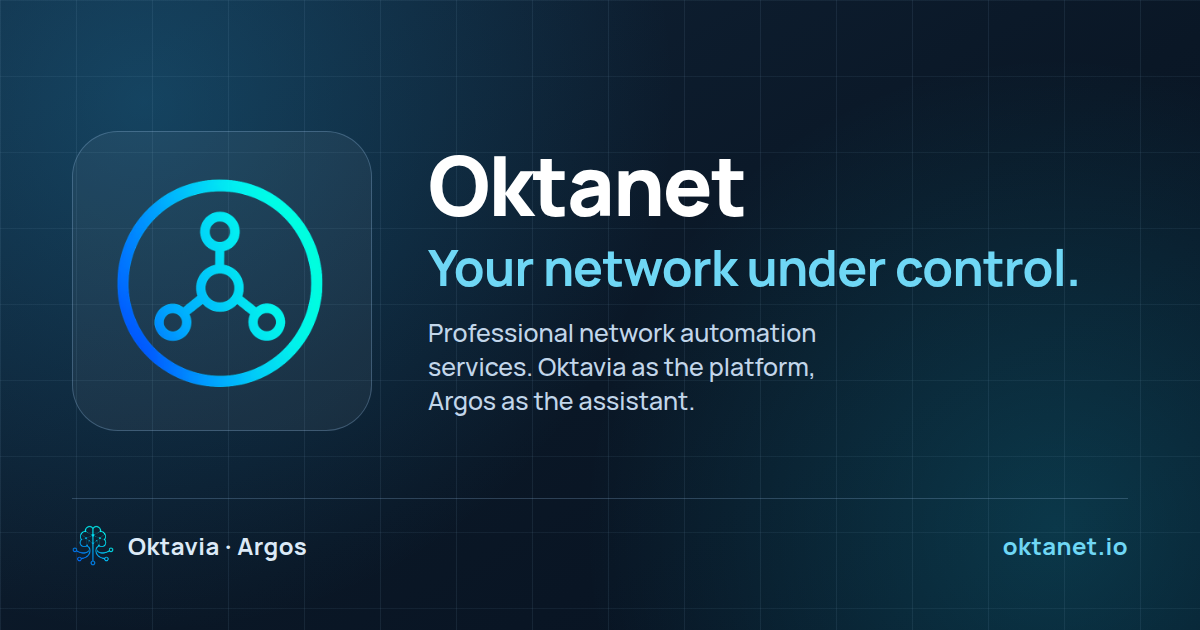
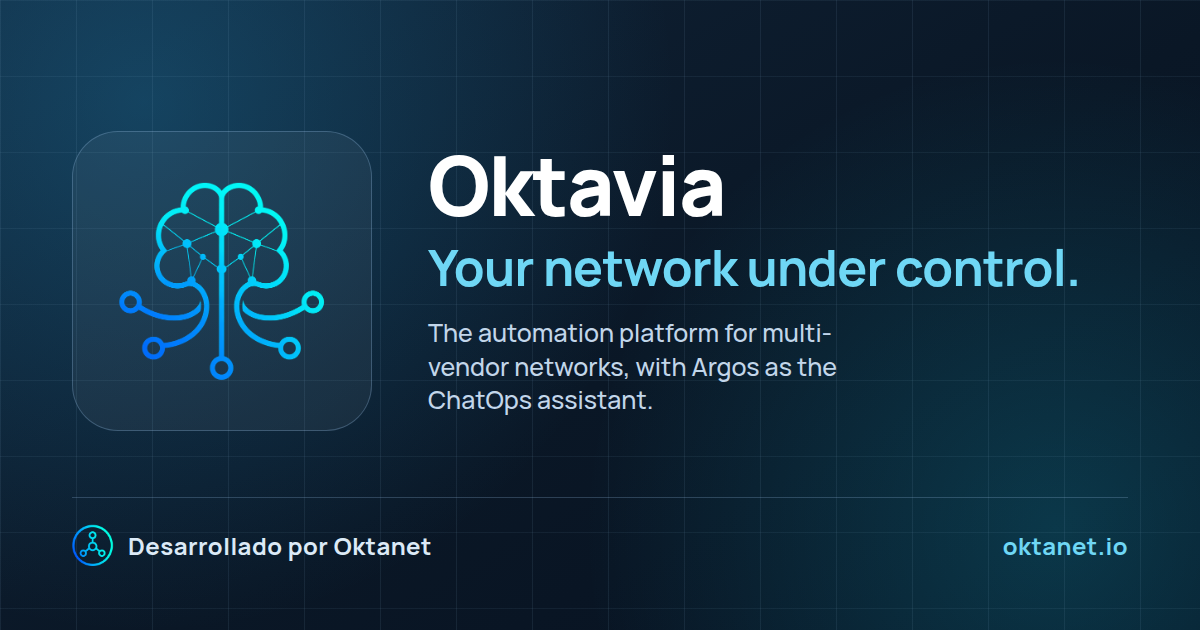
El lema vuelve a su dueno: es de Oktavia, no de la empresa
Al poner a Oktanet arriba se llevo el lema con el, y el titular decia "Oktanet:
tu red bajo control". "Tu red bajo control" describe lo que hace el producto, no
lo que hace la empresa, y en la pagina se leia como si fueran lo mismo.

El titular pasa a "Oktavia · tu red bajo control", sin los dos puntos, y debajo
va la firma en pequeno: "Desarrollado por Oktanet", que es como aparece en la
propia interfaz del producto. El resto de la pagina sigue siendo de la empresa,
que es lo correcto: quien llega, llega por Oktanet, y de ahi baja a cada
producto.

Se ajusta igual el pie y la tarjeta que se ve al compartir, donde el simbolo
vuelve a ser el de Oktavia y la firma de Oktanet baja al pie de la imagen.

El selector del parrafo del hero deja de ser "el primero" y pasa a excluir la
firma, que ahora va delante.

diff --git a/script/home_script.js b/script/home_script.js
@@ -176,7 +176,8 @@
             metricsTitle: 'Resultados operativos desde las primeras iteraciones de adopción.',
             metricsIntro: 'Métricas de referencia en equipos que migran de procesos manuales a flujos controlados con artefactos.',
             heroTitle: 'tu red bajo control.',
-            heroTitleBrand: 'Oktanet:',
+            heroTitleBrand: 'Oktavia',
+            heroAttrib: 'Desarrollado por Oktanet',
             heroBody: 'Servicios profesionales de automatización de redes. Llevamos tu red multivendor a un estándar declarado, verificable y corregible, con Oktavia como plataforma y Argos como asistente. Diseño, implementación y operación, llave en mano.',
             heroActions: ['Solicitar una demostración', 'Ver la información', 'Descargar el PDF'],
             heroPoints: [
@@ -507,7 +508,7 @@
             officeLines: ['Torre de Oficinas, Downtown Reforma', 'Ciudad de México'],
             formLabels: ['Nombre completo', 'Correo electrónico', 'Empresa', '¿Qué deseas resolver?'],
             submitButton: 'Enviar solicitud',
-            footerTagline: 'Oktanet: tu red bajo control.',
+            footerTagline: 'Oktavia, tu red bajo control.',
             copyright: 'Todos los derechos reservados.',
             heroImageAlt: 'Centro de automatización de red de Oktavia con el cumplimiento global y la actividad reciente',
             platformImageAlt: 'Vista de cumplimiento de configuración en Oktavia',
@@ -565,7 +566,8 @@
             metricsTitle: 'Operational outcomes from the first adoption cycles.',
             metricsIntro: 'Reference metrics from teams moving from manual processes to controlled artifact-based workflows.',
             heroTitle: 'your network under control.',
-            heroTitleBrand: 'Oktanet:',
+            heroTitleBrand: 'Oktavia',
+            heroAttrib: 'Powered by Oktanet',
             heroBody: 'Professional network automation services. We bring your multi-vendor network to a declared, verifiable, and fixable standard, with Oktavia as the platform and Argos as the assistant. Design, implementation, and operation, turnkey.',
             heroActions: ['Request a Demo', 'Read the information', 'Download the PDF'],
             heroPoints: [
@@ -896,7 +898,7 @@
             officeLines: ['Office Tower, Downtown Reforma', 'Mexico City'],
             formLabels: ['Full name', 'Email', 'Company', 'What do you need to solve?'],
             submitButton: 'Send Request',
-            footerTagline: 'Oktanet: your network under control.',
+            footerTagline: 'Oktavia, your network under control.',
             copyright: 'All rights reserved.',
             heroImageAlt: 'Oktavia network automation center showing global compliance and recent activity',
             platformImageAlt: 'Configuration compliance view in Oktavia',
@@ -1023,7 +1025,8 @@
             titular.appendChild(nombre);
             titular.appendChild(document.createTextNode(' ' + copy.heroTitle));
         }
-        setText(document.querySelector('.hero-copy > p'), copy.heroBody);
+        setText(document.querySelector('.hero-copy > p:not(.hero-attrib)'), copy.heroBody);
+        setText(document.querySelector('.hero-attrib'), copy.heroAttrib);
         setTextList(document.querySelectorAll('.hero-actions a'), copy.heroActions);
         renderHeroPoints(copy);
 

diff --git a/index.html b/index.html
@@ -11,7 +11,7 @@
 
     <link rel="canonical" href="https://oktanet.io/">
 
-    <meta property="og:title" content="Oktanet · Tu red bajo control">
+    <meta property="og:title" content="Oktavia · Tu red bajo control">
     <meta property="og:description" content="De detectar la desviación a remediarla verificada, sin salir de una sola plataforma. Descubrimiento, cumplimiento, seguridad y ChatOps para redes multivendor.">
     <meta property="og:type" content="website">
     <meta property="og:url" content="https://oktanet.io/">
@@ -22,8 +22,8 @@
     <meta property="og:image" content="https://oktanet.io/img/og-es.png">
     <meta property="og:image:width" content="1200">
     <meta property="og:image:height" content="630">
-    <meta property="og:image:alt" content="Oktanet, servicios profesionales de automatización de redes, con el lema Tu red bajo control">
-    <meta name="twitter:title" content="Oktanet · Tu red bajo control">
+    <meta property="og:image:alt" content="Oktavia, la plataforma de automatización de redes de Oktanet, con el lema Tu red bajo control">
+    <meta name="twitter:title" content="Oktavia · Tu red bajo control">
     <meta name="twitter:description" content="Detecta la desviación, propone el cambio, lo aplica con aprobación y verifica que cerró.">
     <meta name="robots" content="index, follow">
 
@@ -80,7 +80,8 @@
         <section class="hero-section">
             <div class="container hero-grid">
                 <div class="hero-copy">
-                    <h1><span class="hero-brandline">Oktanet:</span> tu red bajo control.</h1>
+                    <h1><span class="hero-brandline">Oktavia</span> tu red bajo control.</h1>
+                    <p class="hero-attrib">Desarrollado por Oktanet</p>
                     <p>
                         Servicios profesionales de automatización de redes. Llevamos tu red multivendor a un estándar declarado, verificable y corregible, con Oktavia como plataforma y Argos como asistente. Diseño, implementación y operación, llave en mano.
                     </p>
@@ -773,7 +774,7 @@
                 </picture>
                 <div>
                     <h4>OKTANET</h4>
-                    <p>Oktanet: tu red bajo control.</p>
+                    <p>Oktavia, tu red bajo control.</p>
                 </div>
             </div>
             <div class="footer-links">

diff --git a/tools/og_template.html b/tools/og_template.html
@@ -116,16 +116,16 @@
 <body>
     <div class="marco">
         <div class="simbolo">
-            <img src="../img/LOGO_Oktanet.png" alt="">
+            <img src="../img/LOGO_Oktavia.png" alt="">
         </div>
         <div class="texto">
-            <p class="producto">Oktanet</p>
+            <p class="producto">Oktavia</p>
             <p class="lema" data-lema></p>
             <p class="apoyo" data-apoyo></p>
         </div>
         <div class="pie">
-            <img src="../img/LOGO_Oktavia.png" alt="">
-            <span>Oktavia · Argos</span>
+            <img src="../img/LOGO_Oktanet.png" alt="">
+            <span>Desarrollado por Oktanet</span>
             <span class="dominio">oktanet.io</span>
         </div>
     </div>
@@ -134,11 +134,11 @@
         const textos = {
             es: {
                 lema: 'Tu red bajo control.',
-                apoyo: 'Servicios profesionales de automatización de redes. Oktavia como plataforma, Argos como asistente.'
+                apoyo: 'La plataforma de automatización para redes multivendor, con Argos como asistente de ChatOps.'
             },
             en: {
                 lema: 'Your network under control.',
-                apoyo: 'Professional network automation services. Oktavia as the platform, Argos as the assistant.'
+                apoyo: 'The automation platform for multi-vendor networks, with Argos as the ChatOps assistant.'
             }
         };
 

diff --git a/style/home_style.css b/style/home_style.css
@@ -475,6 +475,17 @@ p {
     color: #6fd7f5;
 }
 
+/* La atribucion a la empresa va en pequeno bajo el lema, como en la propia
+   interfaz del producto: el lema es de Oktavia y la firma es de Oktanet. */
+.hero-attrib {
+    margin: -8px 0 18px;
+    font-size: 0.86rem;
+    font-weight: 700;
+    letter-spacing: 0.08em;
+    text-transform: uppercase;
+    color: var(--text-muted);
+}
+
 .hero-copy p {
     max-width: 60ch;
     font-size: 1.04rem;
